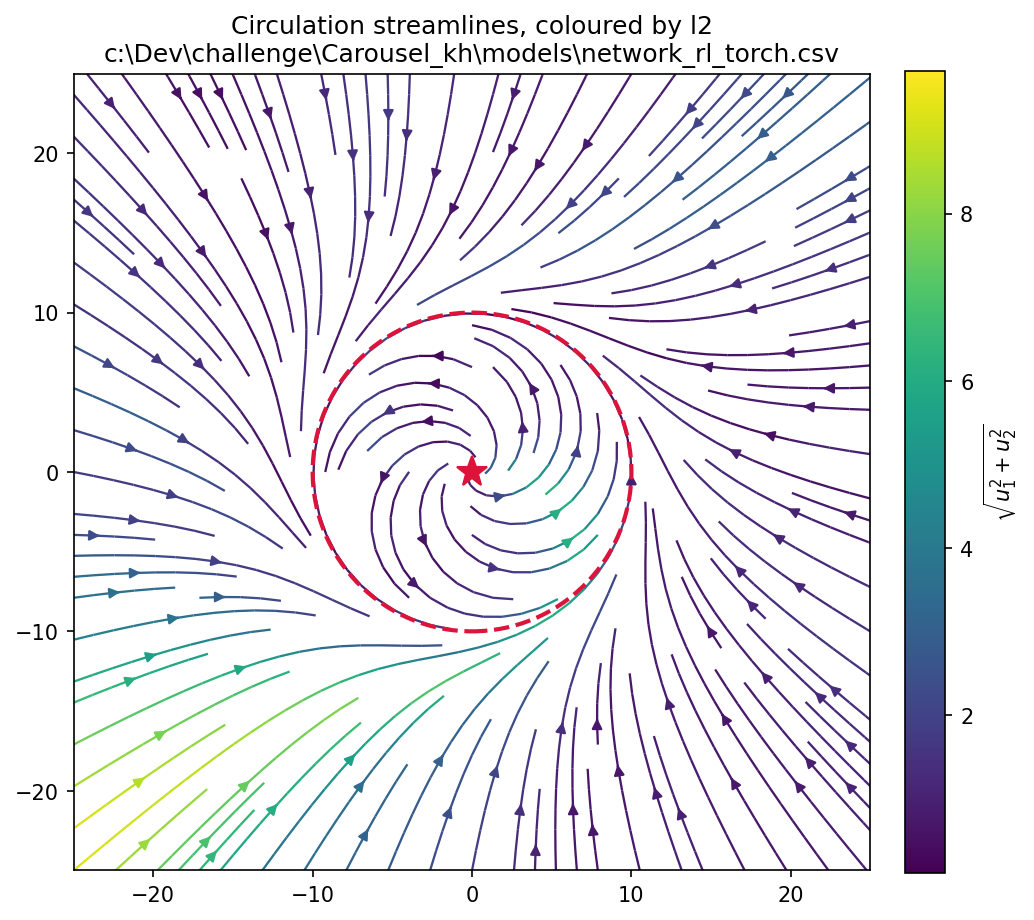
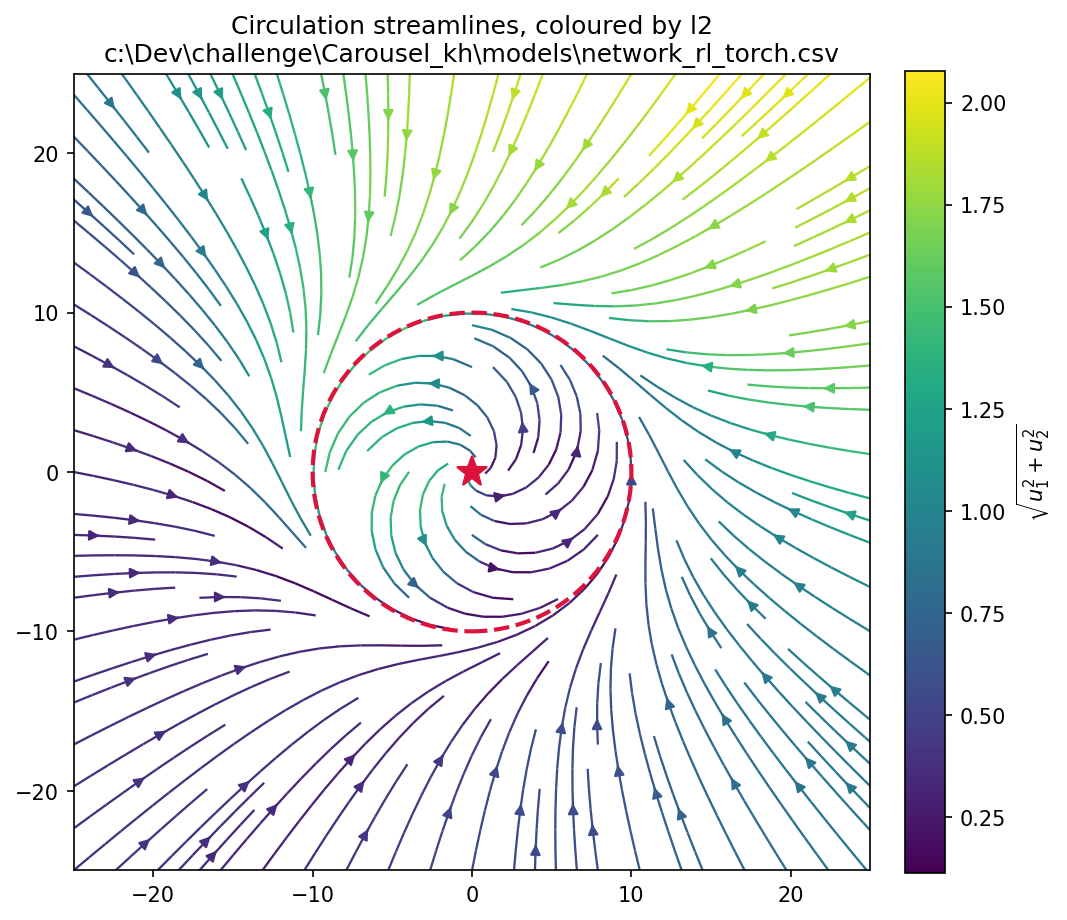
wip

Changed region(s): [[0.0309, 0.0, 0.9903, 1.0]]

diff --git a/train_RL.py b/train_RL.py
@@ -18,7 +18,11 @@ than CMA-ES *because* we have an analytic differentiable model of the boat.
 (If the real boat dynamics were unknown or non-differentiable you'd switch to a
 model-free method like PPO; here the model is known and smooth, so BPTT wins.)
 
-* Policy: the repo's `neural_net_pytorch_.NeuralNetwork` (4->8->8->2, no bias).
+* Policy: the repo's `neural_net_pytorch_.NeuralNetwork` (4->8->8->2, no bias),
+  architecture UNCHANGED (ReLU hidden, linear output). The output is clamped to
+  the action range a in [0, 1] and the simulation scales it to physical thrust
+  u = u_scale * a. The clamp + scale are environment logic (mirror them in
+  Unity); the network's layers and activations are identical to the original.
 * Warm start: load the imitation-trained CSV
   (`models/network_v1_100000_4_20_10_100000.csv`) into the torch model.
 * Export: `model.register_to_csv(out)` -> drops straight into
@@ -37,9 +41,13 @@ import os
 import numpy as np
 import torch
 from torch import nn
+import matplotlib.pyplot as plt
 
 from neural_net_pytorch_ import NeuralNetwork
 
+# both NumPy (MKL) and PyTorch ship their own libiomp5md.dll, and Windows refuses to load it twice. It's not a bug in your code or the simulator.
+import os
+os.environ["KMP_DUPLICATE_LIB_OK"] = "TRUE"
 
 # Boat physical parameters (identical to simple_simulator.py's p1..p7, which are
 # only defined under __main__ there; redefined here so the module is self-contained).
@@ -78,7 +86,7 @@ def net_input(x):
 # Orbit cost (see notes): radius-keeping - tangential-progress + radial-damping
 # (+ optional control effort). Returns mean over the batch at one step.
 # --------------------------------------------------------------------------- #
-def step_cost(x, xdot, u, R, direction, w_radius, w_tang, w_radial, w_ctrl, u_bar):
+def step_cost(x, xdot, a, R, direction, w_radius, w_tang, w_radial, w_ctrl):
     px, py = x[:, 0], x[:, 1]
     r = torch.sqrt(px * px + py * py + 1e-9)
     dx, dy = xdot[:, 0], xdot[:, 1]
@@ -89,23 +97,28 @@ def step_cost(x, xdot, u, R, direction, w_radius, w_tang, w_radial, w_ctrl, u_ba
     c = c - w_tang * direction * v_t
     c = c + w_radial * v_r ** 2
     if w_ctrl:
-        c = c + w_ctrl * ((u - u_bar) ** 2).sum(dim=1)
+        c = c + w_ctrl * ((a - 0.5) ** 2).sum(dim=1)   # keep actions mid-range (off the clamp)
     return c.mean()
 
 
 # --------------------------------------------------------------------------- #
-# Differentiable rollout: returns mean per-step cost over batch & horizon.
+# Differentiable rollout. The network is UNCHANGED (ReLU hidden, linear output);
+# we only clamp its output to the action range a in [0, 1] (the value Unity
+# sees) and the SIMULATION scales it to physical thrust u = u_scale * a. The
+# clamp + scale are environment logic, not network layers, so the model's
+# layers and activations stay identical to the original. Returns mean per-step cost.
 # --------------------------------------------------------------------------- #
 def rollout_cost(model, x0, R, dt, horizon, direction,
-                 w_radius, w_tang, w_radial, w_ctrl, u_bar):
+                 w_radius, w_tang, w_radial, w_ctrl, u_scale):
     x = x0
     total = x.new_zeros(())
     for _ in range(horizon):
-        u = model(net_input(x))                        # gradients flow through here
+        a = model(net_input(x)).clamp(0.0, 1.0)        # action in [0, 1]
+        u = u_scale * a                                # scale to physical thrust
         xdot = boat_deriv(x, u)
         x = x + dt * xdot                              # Euler, same as the simulator
-        total = total + step_cost(x, xdot, u, R, direction,
-                                  w_radius, w_tang, w_radial, w_ctrl, u_bar)
+        total = total + step_cost(x, xdot, a, R, direction,
+                                  w_radius, w_tang, w_radial, w_ctrl)
     return total / horizon
 
 
@@ -124,18 +137,25 @@ def sample_init_states(batch, R, device, generator):
 # Warm-start: load the repo CSV (transposed flat vector) into the torch model.
 # Inverse of NeuralNetwork.register_to_csv.
 # --------------------------------------------------------------------------- #
-def load_params_from_csv(model, path):
+def load_params_from_csv(model, path, out_rescale=1.0):
+    """Load repo CSV weights. If out_rescale != 1, divide the final layer's
+    weights by it -- used to convert an old raw-thrust model (output ~u_bar)
+    into the new bounded-action convention (output ~u_bar/u_scale, near tanh's
+    linear region) so the warm start reproduces roughly the same thrust."""
     with open(path, "r") as fh:
         flat = np.array([float(v) for v in next(csv.reader(fh))], dtype=np.float32)
+    linears = [m for m in model.modules() if isinstance(m, nn.Linear)]
     idx = 0
     with torch.no_grad():
-        for layer in model.modules():
-            if isinstance(layer, nn.Linear):
-                out_f, in_f = layer.weight.shape                # torch stores (out, in)
-                n = in_f * out_f
-                block = flat[idx:idx + n].reshape(in_f, out_f)  # CSV stored (in, out)
-                layer.weight.copy_(torch.from_numpy(block.T.copy()))
-                idx += n
+        for k, layer in enumerate(linears):
+            out_f, in_f = layer.weight.shape                # torch stores (out, in)
+            n = in_f * out_f
+            block = flat[idx:idx + n].reshape(in_f, out_f)  # CSV stored (in, out)
+            w = torch.from_numpy(block.T.copy())
+            if k == len(linears) - 1 and out_rescale != 1.0:
+                w = w / out_rescale                         # final layer only
+            layer.weight.copy_(w)
+            idx += n
     if idx != flat.size:
         raise ValueError(f"CSV had {flat.size} params, model used {idx}")
 
@@ -163,13 +183,21 @@ def main():
     ap.add_argument("--w-radius", type=float, default=1.0)
     ap.add_argument("--w-tangential", type=float, default=2.0)
     ap.add_argument("--w-radial", type=float, default=0.5)
-    ap.add_argument("--w-ctrl", type=float, default=1.0)
-    ap.add_argument("--u-bar", type=float, default=20.0)
+    ap.add_argument("--w-ctrl", type=float, default=0.0,
+                    help="penalty on (a-0.5)^2 (keeps the action mid-range, off the clamp)")
+    ap.add_argument("--u-scale", type=float, default=40.0,
+                    help="physical thrust = u_scale * action, action in [0,1]; "
+                         "default 40 puts cruise (~20) at action 0.5")
+    ap.add_argument("--no-warm-rescale", action="store_true",
+                    help="do NOT divide the warm-start output layer by u_scale "
+                         "(use if the warm-start model is already in the [-1,1] convention)")
     ap.add_argument("--eval-every", type=int, default=5,
                     help="evaluate on a fixed held-out batch every N iters for checkpointing")
+    ap.add_argument("--score-plot", default="training_score.png",
+                    help="where to save the score-vs-iteration plot")
     ap.add_argument("--seed", type=int, default=0)
     args = ap.parse_args()
-    print("Arguments:", args)
+
     torch.manual_seed(args.seed)
     device = "cuda" if torch.cuda.is_available() else "cpu"
     gen = torch.Generator(device=device).manual_seed(args.seed)
@@ -178,19 +206,24 @@ def main():
     if args.scratch:
         print("Random initialisation.")
     elif args.resume is not None:
-        # continue training from existing (already-trained) weights
+        # continue training from existing (already-trained) weights -- already in
+        # the bounded-action convention, so no output rescale.
         resume_path = args.out if args.resume == "__OUT__" else args.resume
         if not os.path.exists(resume_path):
             raise SystemExit(f"--resume: weights file not found: {resume_path}")
         load_params_from_csv(model, resume_path)
         print(f"Resuming from existing weights: {resume_path}")
     else:
-        load_params_from_csv(model, args.warm_start)
-        print(f"Warm-started from {args.warm_start}")
+        # imitation model outputs raw thrust (~u_bar); convert to the [0,1]
+        # action convention by dividing the output layer by u_scale (so cruise
+        # ~u_bar maps to action ~u_bar/u_scale, mid-range).
+        rescale = 1.0 if args.no_warm_rescale else args.u_scale
+        load_params_from_csv(model, args.warm_start, out_rescale=rescale)
+        print(f"Warm-started from {args.warm_start} (output rescaled by 1/{rescale:g})")
 
     cost_kw = dict(R=args.R, dt=args.dt, horizon=args.horizon, direction=args.direction,
                    w_radius=args.w_radius, w_tang=args.w_tangential,
-                   w_radial=args.w_radial, w_ctrl=args.w_ctrl, u_bar=args.u_bar)
+                   w_radial=args.w_radial, w_ctrl=args.w_ctrl, u_scale=args.u_scale)
 
     # fixed held-out batch of starts, used to score the policy for checkpointing
     eval_gen = torch.Generator(device=device).manual_seed(args.seed + 999)
@@ -207,6 +240,7 @@ def main():
     # start best at the loaded policy's score: we only overwrite --out if we
     # actually beat the weights we started from (safe to resume repeatedly).
     best = base
+    hist_it, hist_train, hist_eval = [], [], []
     for it in range(args.iters):
         x0 = sample_init_states(args.batch, args.R, device, gen)
         loss = rollout_cost(model, x0, **cost_kw)
@@ -222,13 +256,28 @@ def main():
             if improved:
                 best = val
                 model.register_to_csv(args.out)            # checkpoint best
+            hist_it.append(it); hist_train.append(loss.item()); hist_eval.append(val)
             print(f"iter {it:4d} | train {loss.item():10.4f} | eval {val:10.4f} "
                   f"| best {best:10.4f}{'  <- saved' if improved else ''}")
 
     print(f"\nDone. Best held-out cost {best:.4f} (started from {base:.4f}).")
     print(f"Saved best policy to {args.out}")
+
+    # --- plot the score after training ------------------------------------- #
+    fig, ax = plt.subplots(figsize=(8, 5))
+    ax.plot(hist_it, hist_train, color="tab:gray", alpha=0.6, label="train (random batch)")
+    ax.plot(hist_it, hist_eval, color="tab:blue", lw=2, marker="o", ms=3,
+            label="eval (held-out)")
+    ax.axhline(base, color="tab:red", ls="--", lw=1, label=f"start ({base:.2f})")
+    ax.axhline(best, color="tab:green", ls="--", lw=1, label=f"best ({best:.2f})")
+    ax.set_xlabel("iteration"); ax.set_ylabel("cost (lower is better)")
+    ax.set_title("Training score")
+    ax.legend(); ax.grid(alpha=0.3)
+    fig.savefig(args.score_plot, dpi=150, bbox_inches="tight")
+    print(f"Saved score plot to {args.score_plot}")
+
     print("Visualise with simple_simulator_with_neural_net.py "
-          f"(point NeuralNetwork(...) at {args.out}).")
+          f"(remember: action a = clamp(output, 0, 1), physical thrust = {args.u_scale:g} * a).")
 
 
 if __name__ == "__main__":

diff --git a/simple_simulator_with_neural_net.py b/simple_simulator_with_neural_net.py
@@ -86,6 +86,7 @@ if __name__ == '__main__':
         # u1,u2 = motion_optimal(x[0,0], x[1,0], x[2,0], K, u_bar, R)
         inputs = Tensor(get_input_line(x[0,0], x[1,0], x[2,0]))
         u1, u2 =neural_net.forward(inputs)
+        u1, u2 = u_bar * float(u1),u_bar * float(u2)
         # u2, u1 =neural_net.forward(inputs)
         u = np.array([[u1], [u2]])
         x = x + dt * f(x, u)  # Euler